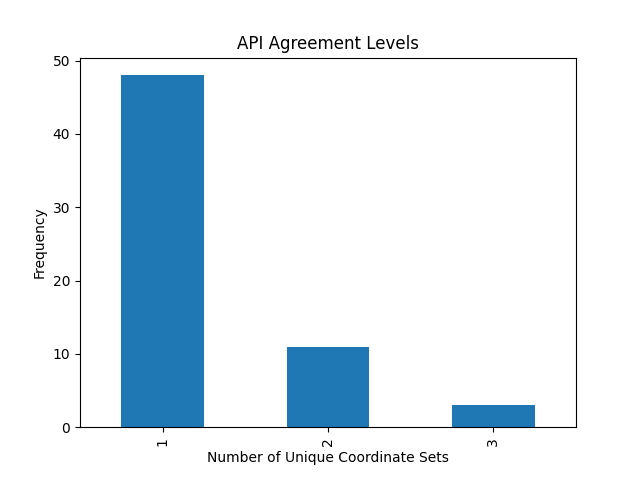
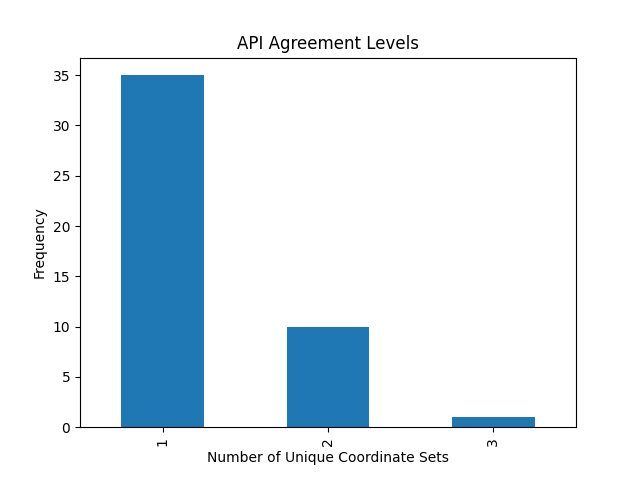
forgot to include the actual plots whoops

diff --git a/data_analysis/data_analysis.py b/data_analysis/data_analysis.py
@@ -29,7 +29,8 @@ plt.xlabel("API", fontsize=12)
 plt.ylabel("Number of Matches", fontsize=12)
 plt.xticks(fontsize=10)
 plt.yticks(fontsize=10)
-plt.show()
+plt.savefig("../Graphs/api_success_rate.png")
+plt.close()
 
 # Agreement stats
 agreement_counts = results_df["agreement_count"].value_counts()
@@ -38,7 +39,8 @@ print(agreement_counts)
 
 # Plot agreement count distribution
 agreement_counts.plot(kind='bar', title="API Agreement Levels", xlabel="Number of Unique Coordinate Sets", ylabel="Frequency")
-plt.show()
+plt.savefig("../Graphs/api_agreement_level.png")
+plt.close()
 
 
 # Filter rows with disagreements
@@ -51,7 +53,8 @@ results_df["agreement_count"].hist(bins=[1, 2, 3, 4], grid=False)
 plt.title("Agreement Distribution")
 plt.xlabel("Number of Unique Coordinate Sets")
 plt.ylabel("Frequency")
-plt.show()
+plt.savefig("../Graphs/api_agreement_dist.png")
+plt.close()
 
 ################## CHECK COORDINATE DIFFERENCE #############################
 
